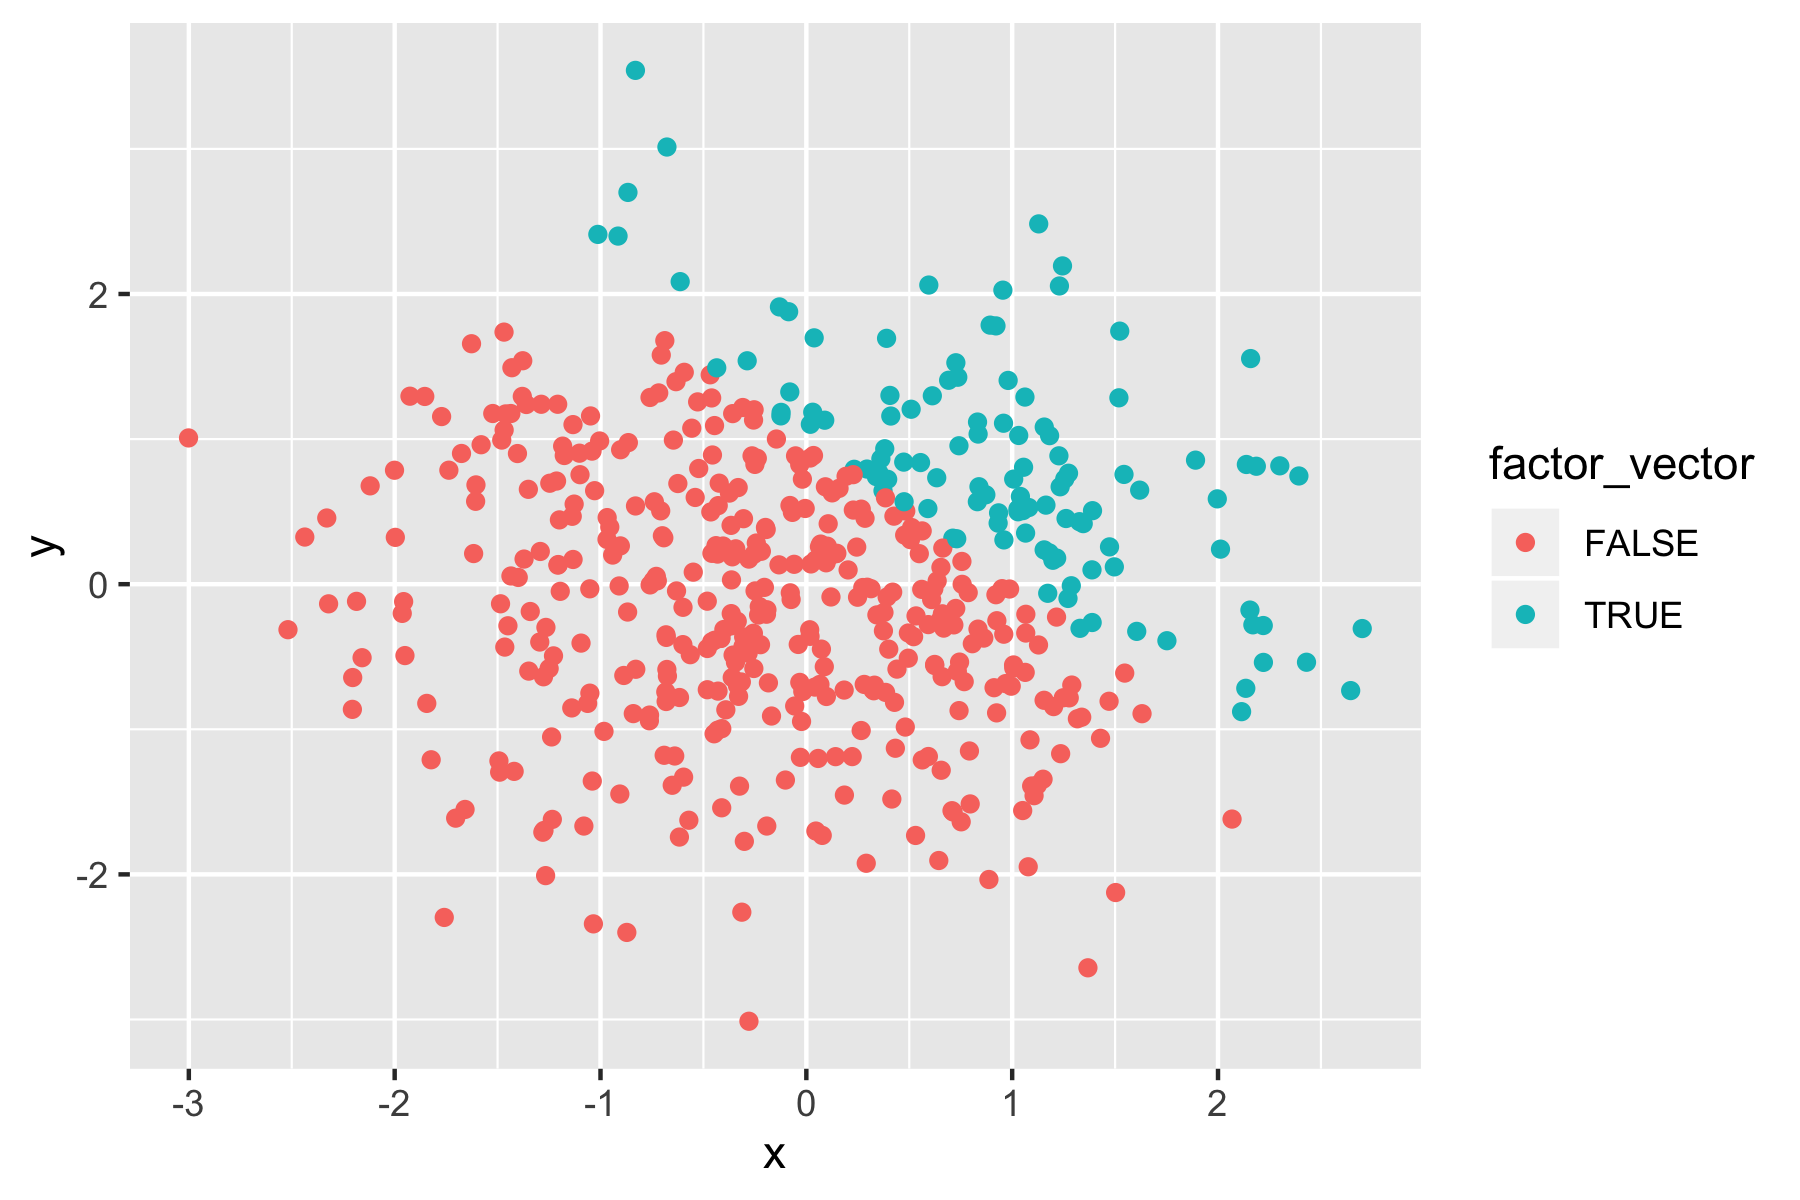
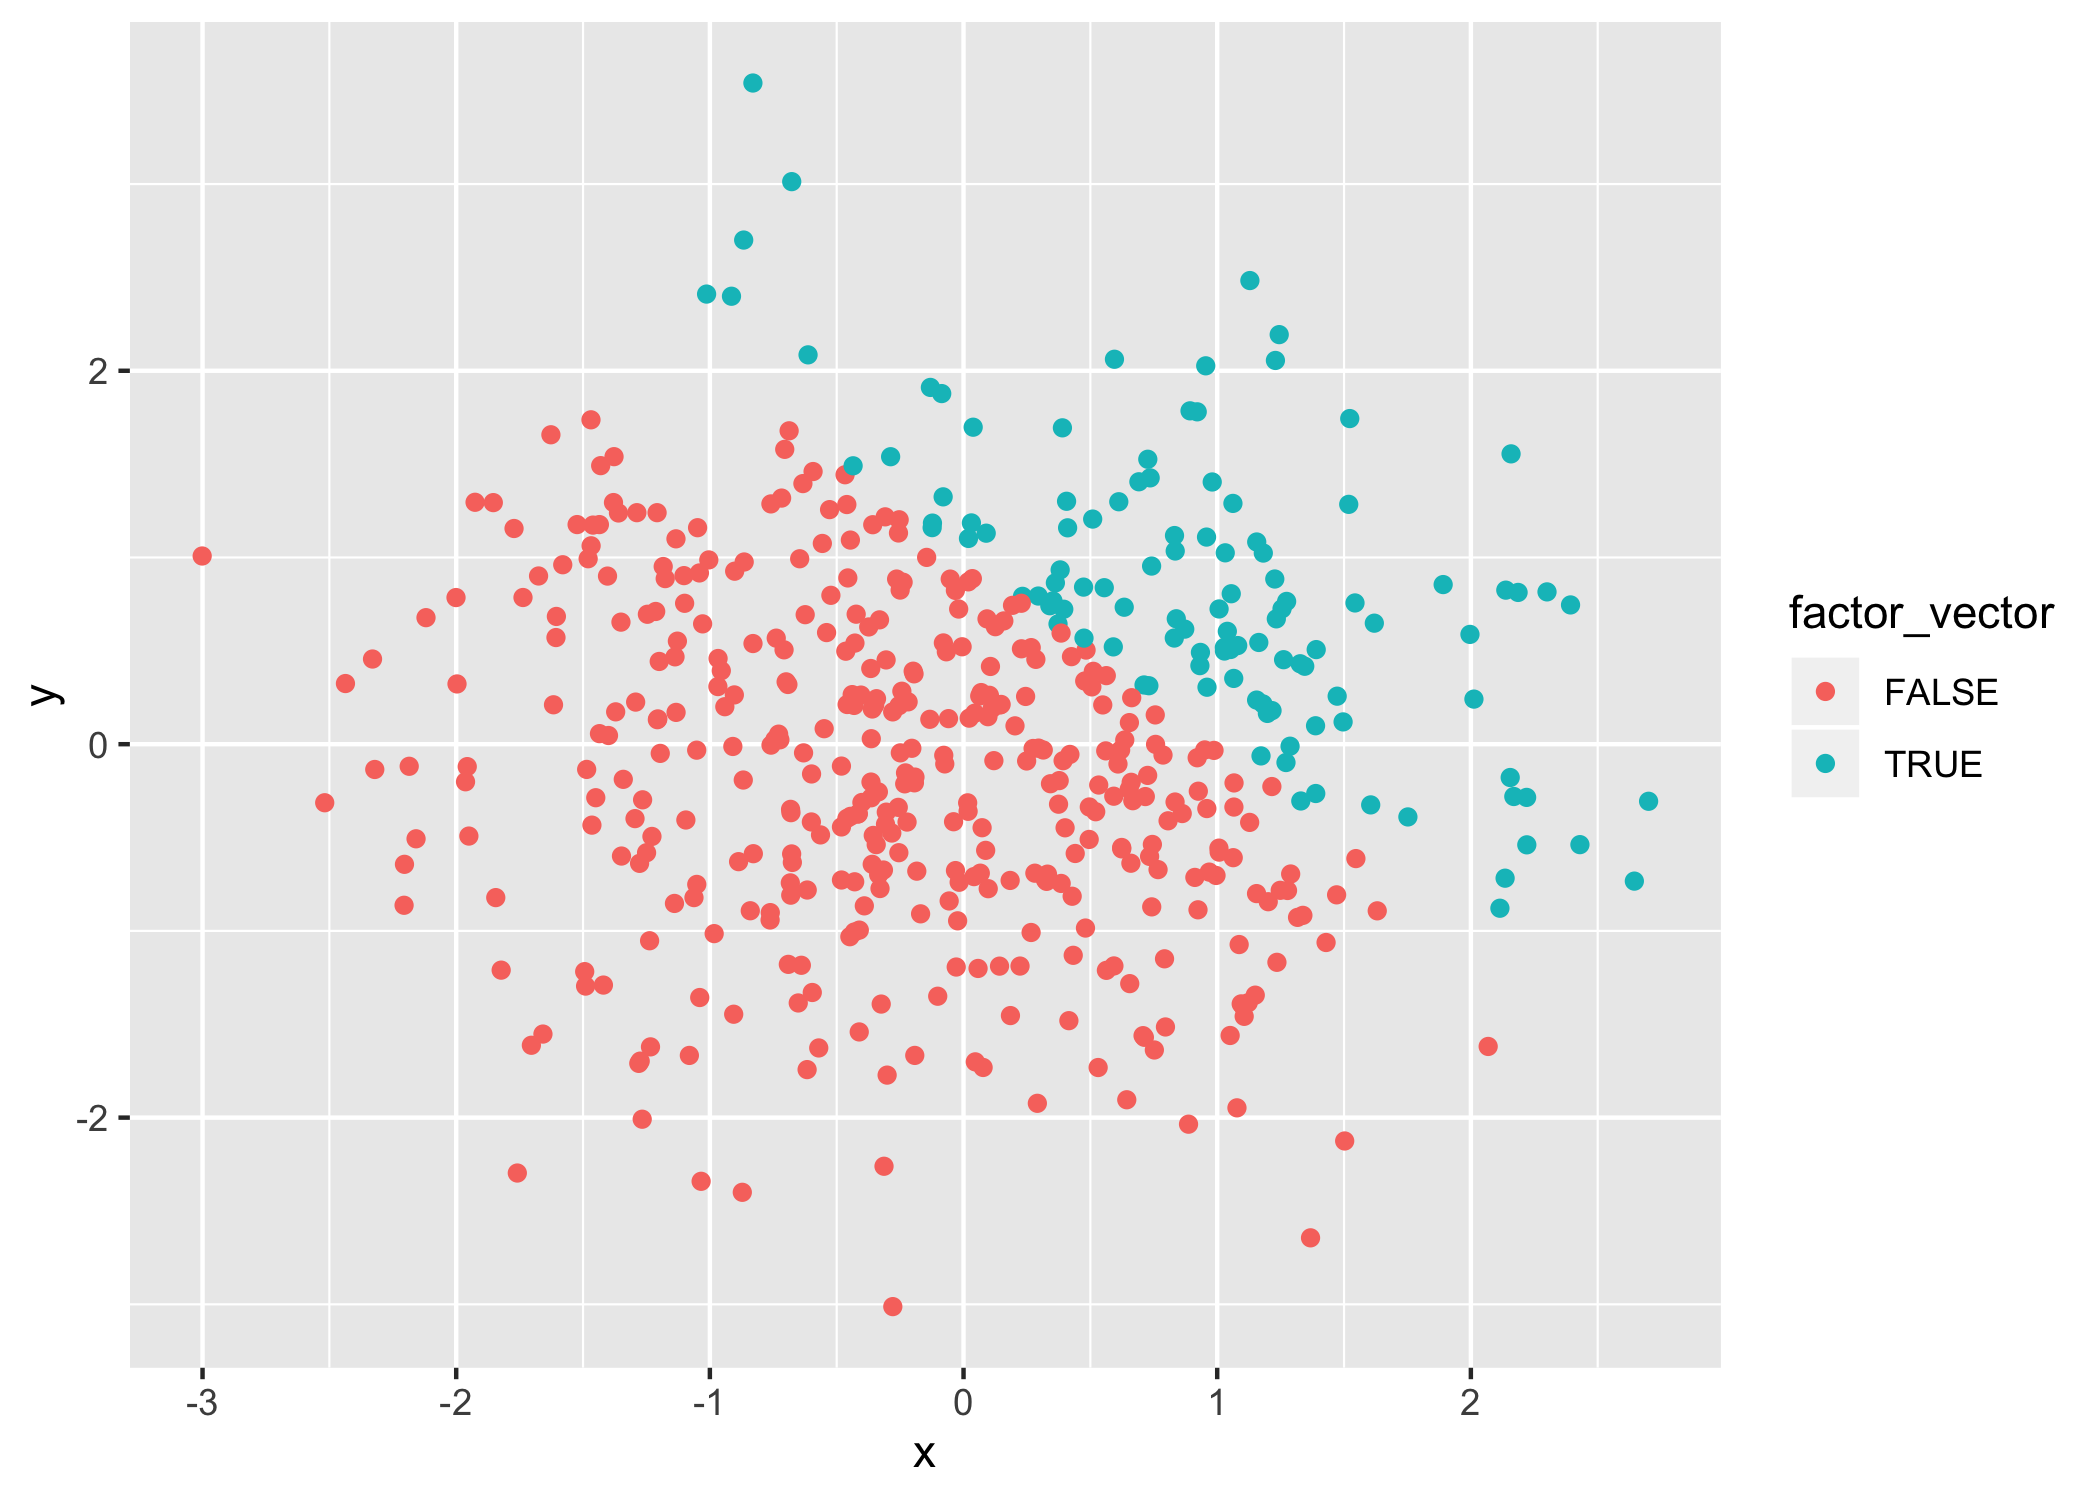
Final formatting, I promise!

diff --git a/p8105_hw1_jl5295.md b/p8105_hw1_jl5295.md
@@ -134,8 +134,10 @@ plotc
 ![](p8105_hw1_jl5295_files/figure-gfm/scatterplots-3.png)<!-- -->
 
 ``` r
-ggsave("plota.png", height = 4, width = 6)
+ggsave("plota.png",)
 ```
+
+    ## Saving 7 x 5 in image
 
 **Scatterplot comment:** There are two colors for the logical\_vector
 scatterplot, one red and one green. There is a gradient of sky blue to
